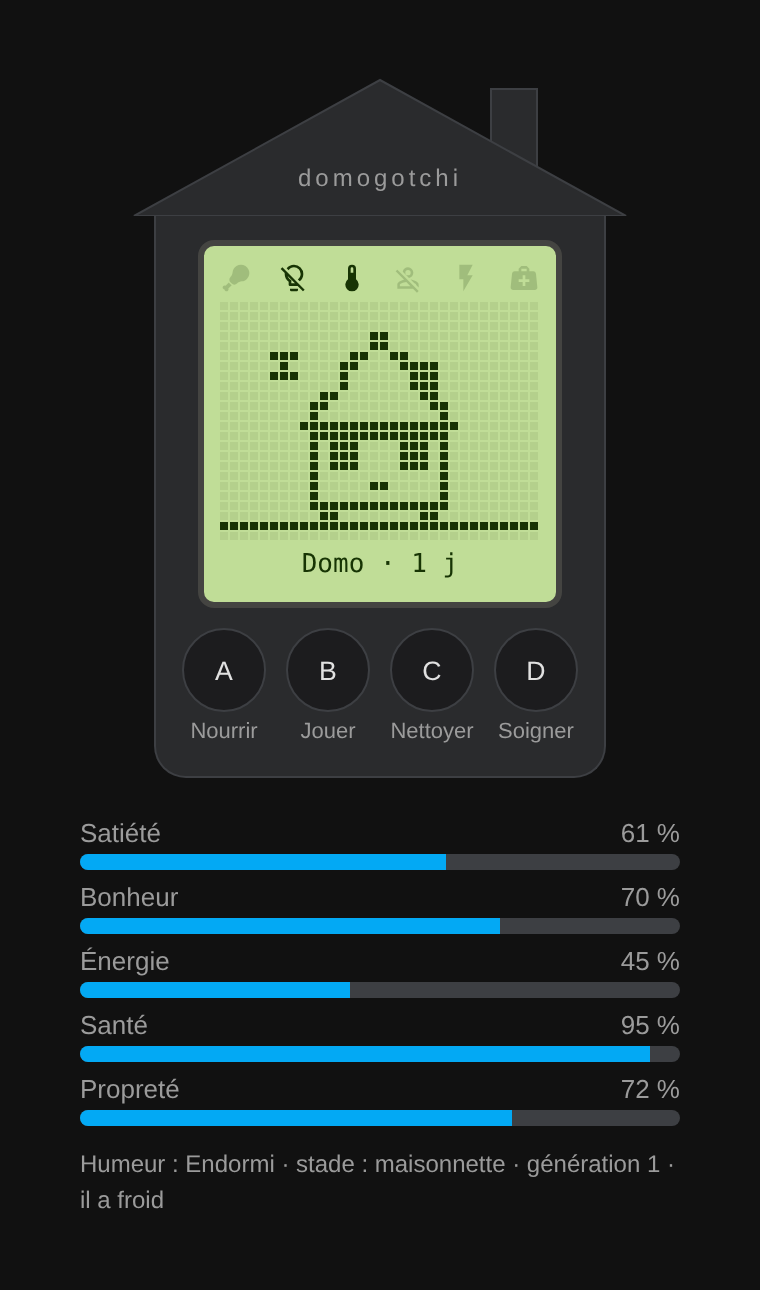
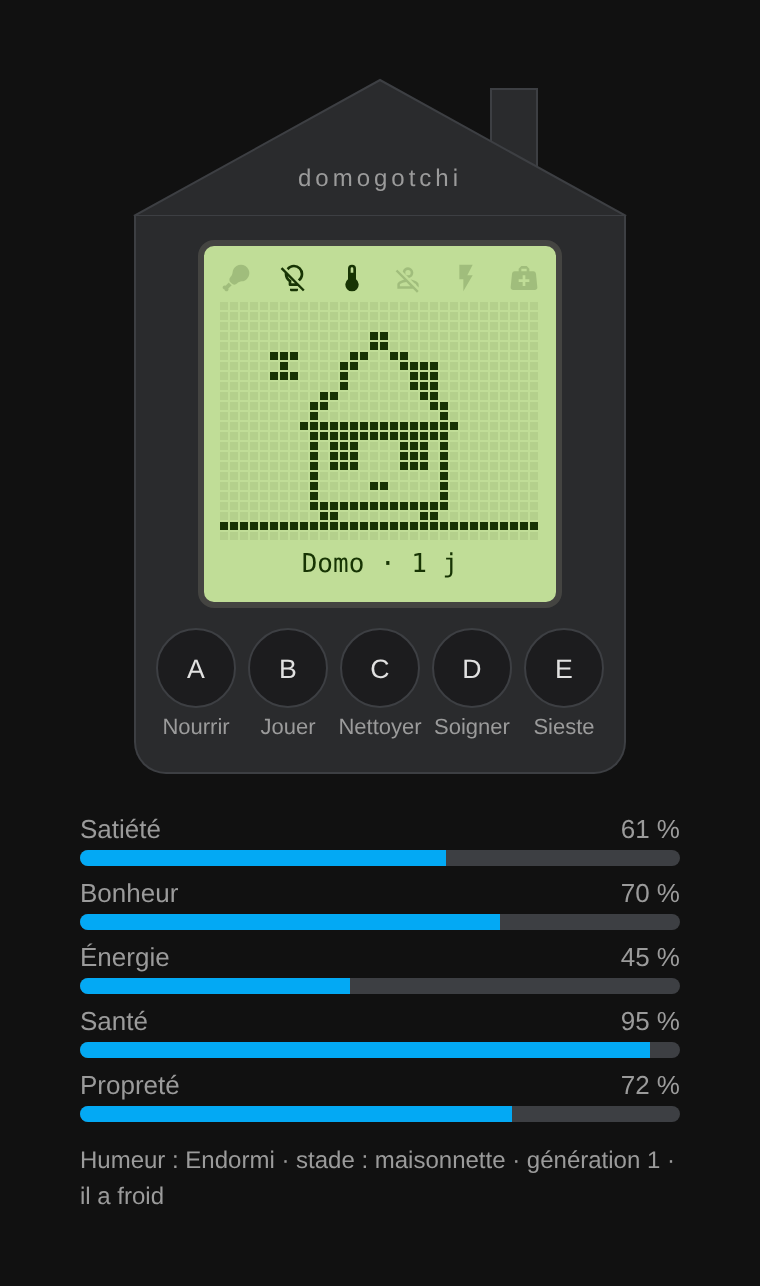
2026.11.8 : bouton Sieste
- Nouveau bouton « Sieste » / « Nap » (touche E sur la carte) : sieste d'une
  heure en journée, énergie récupérée à +50 %/h ; refusée pour un œuf, une
  ruine, une créature déjà endormie ou au-dessus de 90 % d'énergie.
- Compte à rebours de la sieste sur l'écran LCD, attribut fin_sieste.
- Carte élargie pour cinq boutons, captures mises à jour, README FR / EN.

Claude-Session: https://claude.ai/code/session_01LtneEvrzbBgcCnrHhqk89V

diff --git a/custom_components/domogotchi/frontend/domogotchi-card.js b/custom_components/domogotchi/frontend/domogotchi-card.js
@@ -1,5 +1,5 @@
 /* Domogotchi card — carte Lovelace de la créature-maison (FR / EN). */
-const DOMOGOTCHI_VERSION = "2026.11.7";
+const DOMOGOTCHI_VERSION = "2026.11.8";
 
 const W = 32;
 const H = 24;
@@ -20,6 +20,7 @@ const ACTIONS = [
   { key: "jouer", letter: "B" },
   { key: "nettoyer", letter: "C" },
   { key: "soigner", letter: "D" },
+  { key: "sieste", letter: "E" },
 ];
 
 const I18N = {
@@ -27,7 +28,7 @@ const I18N = {
     messages: {
       nourri: "Miam !", trop_mange: "Trop mangé…", joue: "Youpi !", nettoye: "Tout propre", nettoye_auto: "Le robot est passé !",
       soigne: "Ça va mieux", refus_dort: "Chut, il dort", refus_oeuf: "Patience…", refus_mort: "…",
-      refus_fatigue: "Trop fatigué", refus_pas_malade: "Pas malade", eclosion: "Éclosion !",
+      refus_fatigue: "Trop fatigué", refus_pas_malade: "Pas malade", sieste: "Petite sieste…", refus_pas_fatigue: "Pas fatigué", eclosion: "Éclosion !",
       nouvel_oeuf: "Un nouvel œuf", endormi: "Bonne nuit", reveil: "Bonjour !", malade: "Il est malade", mort: "R.I.P.",
     },
     moods: {
@@ -36,13 +37,13 @@ const I18N = {
       content: "Content", heureux: "Heureux",
     },
     stages: { oeuf: "œuf", cabane: "cabane", maisonnette: "maisonnette", maison: "maison", villa: "villa", mort: "ruine" },
-    actions: { nourrir: "Nourrir", jouer: "Jouer", nettoyer: "Nettoyer", soigner: "Soigner" },
+    actions: { nourrir: "Nourrir", jouer: "Jouer", nettoyer: "Nettoyer", soigner: "Soigner", sieste: "Sieste" },
     gauges: { satiete: "Satiété", bonheur: "Bonheur", energie: "Énergie", sante: "Santé", proprete: "Propreté" },
     ctx: {
       mood: "Humeur :", stage: "stade :", generation: "génération", cold: "il a froid", hot: "il a chaud",
       alone: "personne à la maison", stressed: "consommation élevée", good: "beau temps", bad: "mauvais temps",
     },
-    egg: "œuf", hatchIn: (m) => `Éclosion dans ${m} min`, hatchSoon: "Éclosion imminente", hours: "h", days: "j", rip: "R.I.P.",
+    egg: "œuf", hatchIn: (m) => `Éclosion dans ${m} min`, hatchSoon: "Éclosion imminente", napLeft: (m) => `Sieste · ${m} min`, hours: "h", days: "j", rip: "R.I.P.",
     reset: "Nouvel œuf", resetConfirm: "Remplacer la créature par un nouvel œuf ?",
     notFound: "Entité introuvable :",
   },
@@ -50,7 +51,7 @@ const I18N = {
     messages: {
       nourri: "Yum!", trop_mange: "Too full…", joue: "Yay!", nettoye: "All clean", nettoye_auto: "The robot cleaned!",
       soigne: "Feeling better", refus_dort: "Shh, sleeping", refus_oeuf: "Patience…", refus_mort: "…",
-      refus_fatigue: "Too tired", refus_pas_malade: "Not sick", eclosion: "Hatched!",
+      refus_fatigue: "Too tired", refus_pas_malade: "Not sick", sieste: "Nap time…", refus_pas_fatigue: "Not tired", eclosion: "Hatched!",
       nouvel_oeuf: "A new egg", endormi: "Good night", reveil: "Good morning!", malade: "It is sick", mort: "R.I.P.",
     },
     moods: {
@@ -59,13 +60,13 @@ const I18N = {
       content: "Content", heureux: "Happy",
     },
     stages: { oeuf: "egg", cabane: "hut", maisonnette: "cottage", maison: "house", villa: "villa", mort: "ruin" },
-    actions: { nourrir: "Feed", jouer: "Play", nettoyer: "Clean", soigner: "Heal" },
+    actions: { nourrir: "Feed", jouer: "Play", nettoyer: "Clean", soigner: "Heal", sieste: "Nap" },
     gauges: { satiete: "Satiety", bonheur: "Happiness", energie: "Energy", sante: "Health", proprete: "Cleanliness" },
     ctx: {
       mood: "Mood:", stage: "stage:", generation: "generation", cold: "feeling cold", hot: "feeling hot",
       alone: "nobody home", stressed: "high consumption", good: "nice weather", bad: "bad weather",
     },
-    egg: "egg", hatchIn: (m) => `Hatching in ${m} min`, hatchSoon: "Hatching soon", hours: "h", days: "d", rip: "R.I.P.",
+    egg: "egg", hatchIn: (m) => `Hatching in ${m} min`, hatchSoon: "Hatching soon", napLeft: (m) => `Nap · ${m} min`, hours: "h", days: "d", rip: "R.I.P.",
     reset: "New egg", resetConfirm: "Replace the creature with a new egg?",
     notFound: "Entity not found:",
   },
@@ -309,18 +310,18 @@ class DomogotchiCard extends HTMLElement {
           background:var(--secondary-background-color); border:1px solid var(--divider-color); }
         .brand { position:absolute; left:0; right:0; top:46px; text-align:center; font-size:12px;
           letter-spacing:2px; color:var(--secondary-text-color); text-transform:lowercase; }
-        .body { width:226px; box-sizing:border-box; background:var(--secondary-background-color);
+        .body { width:246px; box-sizing:border-box; background:var(--secondary-background-color);
           border:1px solid var(--divider-color); border-top:none; border-radius:0 0 16px 16px;
-          padding:12px 16px 16px; display:flex; flex-direction:column; align-items:center; gap:10px; }
+          padding:12px 8px 16px; display:flex; flex-direction:column; align-items:center; gap:10px; }
         .lcd { background:${LCD_BG}; border:3px solid #444441; border-radius:8px; padding:8px; color:${LCD_ON}; }
         .icons { display:flex; justify-content:space-between; }
         .icons ha-icon { --mdc-icon-size:16px; opacity:.18; transition:opacity .2s; }
         .icons ha-icon.on { opacity:1; }
         canvas { display:block; image-rendering:pixelated; margin:4px 0; }
         .msg { text-align:center; font-family:monospace; font-size:13px; height:18px; overflow:hidden; white-space:nowrap; }
-        .btns { display:flex; gap:10px; }
-        .btn { display:flex; flex-direction:column; align-items:center; gap:4px; }
-        button { width:42px; height:42px; border-radius:50%; border:1px solid var(--divider-color);
+        .btns { display:flex; gap:2px; }
+        .btn { display:flex; flex-direction:column; align-items:center; gap:4px; width:44px; }
+        button { width:40px; height:40px; border-radius:50%; border:1px solid var(--divider-color);
           background:var(--card-background-color); color:var(--primary-text-color); font-weight:500; cursor:pointer; }
         button:active { transform:scale(.94); }
         .btn span { font-size:11px; color:var(--secondary-text-color); }
@@ -486,6 +487,10 @@ class DomogotchiCard extends HTMLElement {
       const at = Date.parse(a.eclosion_le || "");
       const left = Number.isFinite(at) ? Math.ceil((at - Date.now()) / 60000) : NaN;
       text = Number.isFinite(left) ? (left >= 1 ? t.hatchIn(left) : t.hatchSoon) : `${a.nom} · ${t.egg}`;
+    }
+    else if (a.fin_sieste && Number.isFinite(Date.parse(a.fin_sieste))) {
+      const left = Math.max(1, Math.ceil((Date.parse(a.fin_sieste) - Date.now()) / 60000));
+      text = t.napLeft(left);
     }
     else {
       const h = a.age_heures || 0;

diff --git a/custom_components/domogotchi/engine.py b/custom_components/domogotchi/engine.py
@@ -17,6 +17,9 @@ HUNGER_RATE_AWAKE = 100 / (20 * 60)  # ~3 repas par jour
 HUNGER_RATE_ASLEEP = HUNGER_RATE_AWAKE / 2
 ENERGY_DRAIN = 100 / (16 * 60)  # 16 h d'éveil vident la batterie
 ENERGY_RECOVERY = 100 / (7 * 60)  # 7 h de sommeil la remplissent
+NAP_MINUTES = 60  # durée d'une sieste
+NAP_RECOVERY = 100 / (2 * 60)  # une sieste d'une heure rend la moitié de l'énergie
+NAP_MAX_ENERGY = 90  # au-dessus, il n'a pas sommeil
 HAPPINESS_DRAIN = 100 / (24 * 60)  # ~2 parties de jeu par jour
 HAPPINESS_DRAIN_ASLEEP = HAPPINESS_DRAIN / 4
 CLEANLINESS_DRAIN = 100 / (30 * 60)  # un ménage par jour suffit
@@ -115,6 +118,7 @@ class PetState:
     sick: bool = False
     alive: bool = True
     asleep: bool = False
+    nap_left: float = 0.0  # minutes de sieste restantes
     generation: int = 1
     last_event: str = "eclosion"
     last_event_at: str = field(default_factory=lambda: datetime.now().isoformat())
@@ -199,6 +203,11 @@ def tick(state: PetState, minutes: float, ctx: Context, now: datetime | None = N
     if not state.alive or minutes <= 0:
         return state
     minutes = min(minutes, MAX_CATCH_UP_MINUTES)
+    if 0 < state.nap_left < minutes:
+        # La sieste se termine au milieu de l'intervalle : on le découpe.
+        first = state.nap_left
+        tick(state, first, ctx, now)
+        return tick(state, minutes - first, ctx, now)
 
     was_egg = state.is_egg
     state.age_minutes += minutes
@@ -215,7 +224,8 @@ def tick(state: PetState, minutes: float, ctx: Context, now: datetime | None = N
             _event(state, "eclosion", now)
         return state
 
-    asleep = ctx.asleep
+    napping = state.nap_left > 0
+    asleep = ctx.asleep or napping
     if asleep != state.asleep:
         state.asleep = asleep
         _event(state, "endormi" if asleep else "reveil", now)
@@ -223,7 +233,7 @@ def tick(state: PetState, minutes: float, ctx: Context, now: datetime | None = N
     m = minutes
     if asleep:
         state.satiety -= HUNGER_RATE_ASLEEP * m
-        state.energy += ENERGY_RECOVERY * m
+        state.energy += (max(ENERGY_RECOVERY, NAP_RECOVERY) if napping else ENERGY_RECOVERY) * m
         state.happiness -= HAPPINESS_DRAIN_ASLEEP * m
     else:
         state.satiety -= HUNGER_RATE_AWAKE * m
@@ -240,6 +250,8 @@ def tick(state: PetState, minutes: float, ctx: Context, now: datetime | None = N
     if ctx.cold or ctx.hot:
         state.happiness -= DISCOMFORT_DRAIN * m
     state.cleanliness -= CLEANLINESS_DRAIN * m
+    if napping:
+        state.nap_left = max(0.0, state.nap_left - m)
 
     # Santé : chaque facteur de négligence actif la fait baisser.
     neglect = 0
@@ -316,6 +328,20 @@ def clean(state: PetState, now: datetime | None = None) -> PetState:
         return state
     state.cleanliness = 100.0
     _event(state, "nettoye", now)
+    return state
+
+
+def nap(state: PetState, now: datetime | None = None) -> PetState:
+    """Petite sieste d'une heure pour recharger l'énergie en journée."""
+    now = now or datetime.now()
+    if not _can_act(state, now):
+        return state
+    if state.energy > NAP_MAX_ENERGY:
+        _event(state, "refus_pas_fatigue", now)
+        return state
+    state.nap_left = float(NAP_MINUTES)
+    state.asleep = True
+    _event(state, "sieste", now)
     return state
 
 

diff --git a/custom_components/domogotchi/sensor.py b/custom_components/domogotchi/sensor.py
@@ -120,9 +120,13 @@ class DomogotchiSensor(DomogotchiEntity, SensorEntity):
         hatch_at = None
         if pet.alive and pet.is_egg:
             hatch_at = (dt_util.now() + timedelta(minutes=pet.minutes_to_hatch)).isoformat()
+        nap_end = None
+        if pet.alive and pet.nap_left > 0:
+            nap_end = (dt_util.now() + timedelta(minutes=pet.nap_left)).isoformat()
         return {
             "nom": self.coordinator.config_entry.title,
             "eclosion_le": hatch_at,
+            "fin_sieste": nap_end,
             "config_entry_id": entry_id,
             "stade": pet.stage,
             "age_heures": round(pet.age_hours, 1),

diff --git a/custom_components/domogotchi/const.py b/custom_components/domogotchi/const.py
@@ -3,7 +3,7 @@
 from __future__ import annotations
 
 DOMAIN = "domogotchi"
-VERSION = "2026.11.7"
+VERSION = "2026.11.8"
 
 CONF_NAME = "name"
 CONF_LIGHTS = "lights"
@@ -27,4 +27,4 @@ CARD_URL = "/domogotchi_static/domogotchi-card.js"
 SERVICE_RESET = "reset"
 ATTR_CONFIG_ENTRY_ID = "config_entry_id"
 
-BUTTON_KEYS = ("nourrir", "jouer", "nettoyer", "soigner")
+BUTTON_KEYS = ("nourrir", "jouer", "nettoyer", "soigner", "sieste")

diff --git a/custom_components/domogotchi/button.py b/custom_components/domogotchi/button.py
@@ -23,6 +23,7 @@ BUTTONS = (
     DomogotchiButtonDescription(key="jouer", icon="mdi:soccer", action=engine.play),
     DomogotchiButtonDescription(key="nettoyer", icon="mdi:broom", action=engine.clean),
     DomogotchiButtonDescription(key="soigner", icon="mdi:medical-bag", action=engine.heal),
+    DomogotchiButtonDescription(key="sieste", icon="mdi:power-sleep", action=engine.nap),
 )
 
 

diff --git a/README.md b/README.md
@@ -14,7 +14,7 @@ Une créature-maison façon Tamagotchi qui vit dans Home Assistant. Elle a faim,
 
 - Cycle de vie complet : œuf → cabane → maisonnette → maison → villa, puis ruine si elle est négligée trop longtemps.
 - Cinq jauges : satiété, bonheur, énergie, santé, propreté.
-- Quatre actions : nourrir, jouer, nettoyer, soigner (avec refus quand elle dort, qu'elle est trop fatiguée ou déjà rassasiée).
+- Cinq actions : nourrir, jouer, nettoyer, soigner et faire une sieste (avec refus quand elle dort, qu'elle est trop fatiguée ou déjà rassasiée).
 - Liens facultatifs avec la maison réelle, réglables à tout moment dans les options.
 - Carte Lovelace `domogotchi-card` intégrée, en français ou en anglais selon la langue de Home Assistant : écran LCD rétro, maison en pixel art dont les fenêtres sont les yeux, cheminée qui fume, neige sur le toit quand il fait froid, volets croisés quand elle est malade, fenêtres éteintes quand elle dort.
 - État conservé entre les redémarrages (rattrapage plafonné à 12 h pour qu'un arrêt de Home Assistant ne la tue pas).
@@ -94,6 +94,7 @@ Les identifiants dépendent du nom choisi et de la langue de Home Assistant ; ex
 | `button.domo_jouer` | bouton | +30 bonheur, −10 énergie ; refusé si elle dort, est malade ou épuisée |
 | `button.domo_nettoyer` | bouton | Propreté à 100 % |
 | `button.domo_soigner` | bouton | +30 santé, guérit la maladie |
+| `button.domo_sieste` | bouton | Sieste d'une heure en journée : elle dort et récupère son énergie bien plus vite que la nuit (+50 % en une heure, contre environ +14 % la nuit) ; refusée si l'énergie dépasse 90 %. L'écran affiche le temps restant |
 
 ### Service
 
@@ -135,7 +136,7 @@ A Tamagotchi-style house creature living in Home Assistant. It gets hungry, bore
 
 - Full life cycle: egg → hut → cottage → house → villa, then a ruin if neglected for too long.
 - Five gauges: satiety, happiness, energy, health, cleanliness.
-- Four actions: feed, play, clean, heal (refused while asleep, exhausted or already full).
+- Five actions: feed, play, clean, heal and nap (refused while asleep, exhausted or already full).
 - Optional links with the real home, editable anytime in the options.
 - Built-in `domogotchi-card` Lovelace card, in English or French following the Home Assistant language: retro LCD screen, pixel-art house whose windows are its eyes, smoking chimney, snow on the roof when cold, crossed shutters when sick, dark windows when asleep.
 - State kept across restarts (catch-up capped at 12 h so a Home Assistant outage does not kill it).
@@ -213,6 +214,7 @@ Entity IDs depend on the creature name and your Home Assistant language; example
 | `button.domo_play` | button | +30 happiness, −10 energy; refused when asleep, sick or exhausted |
 | `button.domo_clean` | button | Cleanliness back to 100 % |
 | `button.domo_heal` | button | +30 health, cures sickness |
+| `button.domo_nap` | button | One-hour daytime nap: it sleeps and recovers energy much faster than at night (+50 % in one hour, versus about +14 % at night); refused above 90 % energy. The screen shows the time left |
 
 **Service** `domogotchi.reset`: replaces the creature with a new egg (next generation). Without `config_entry_id`, applies to all creatures.
 
